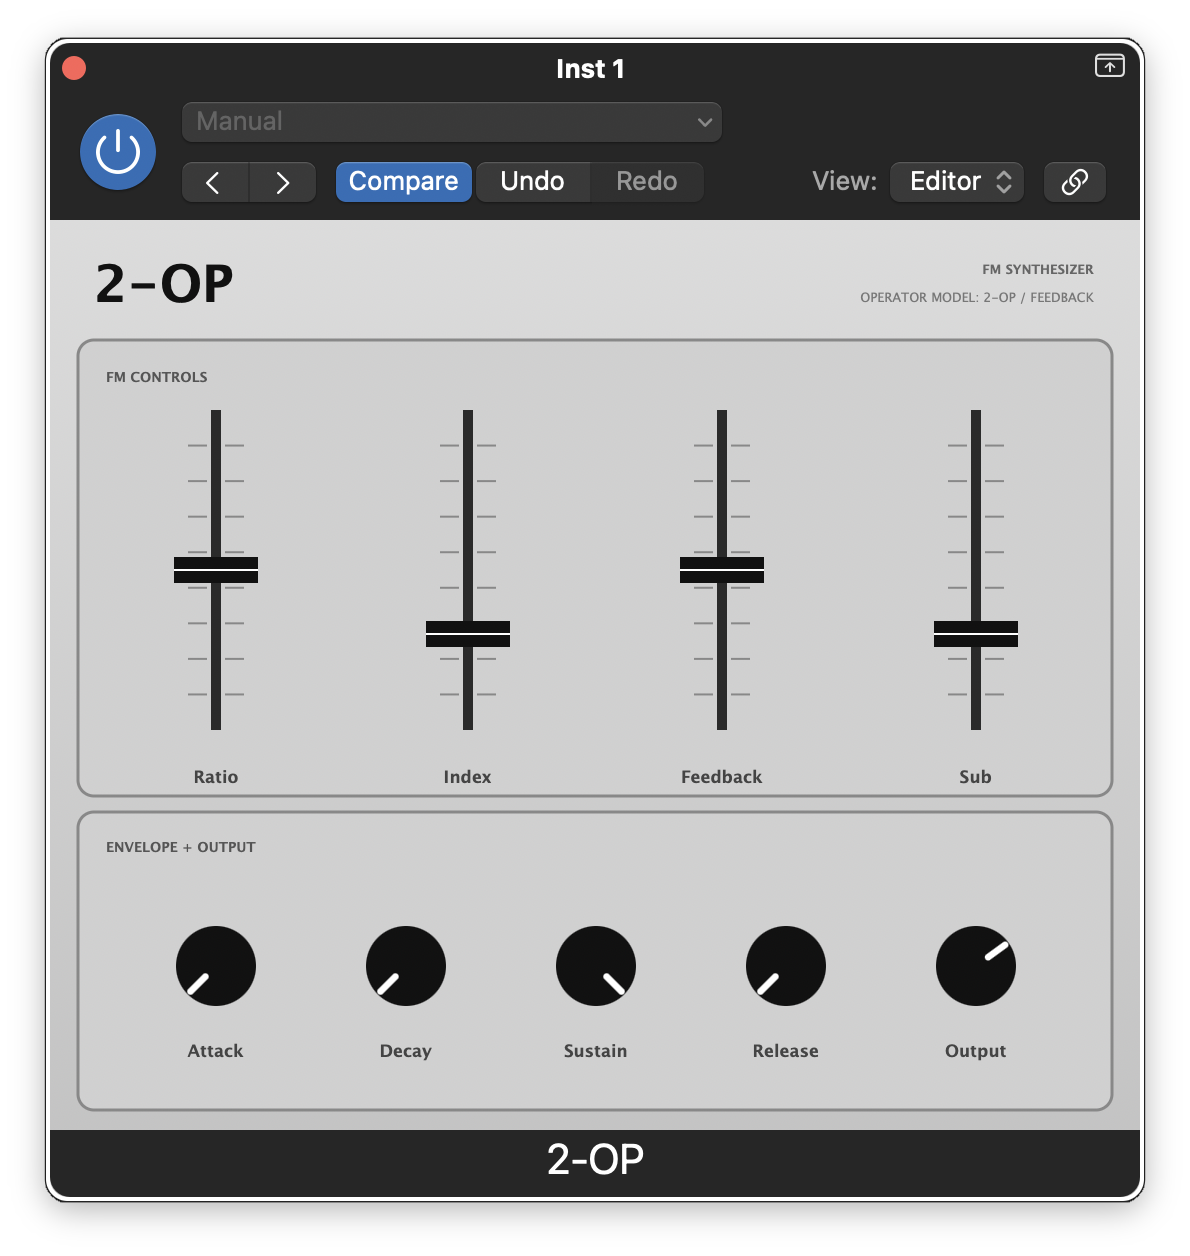
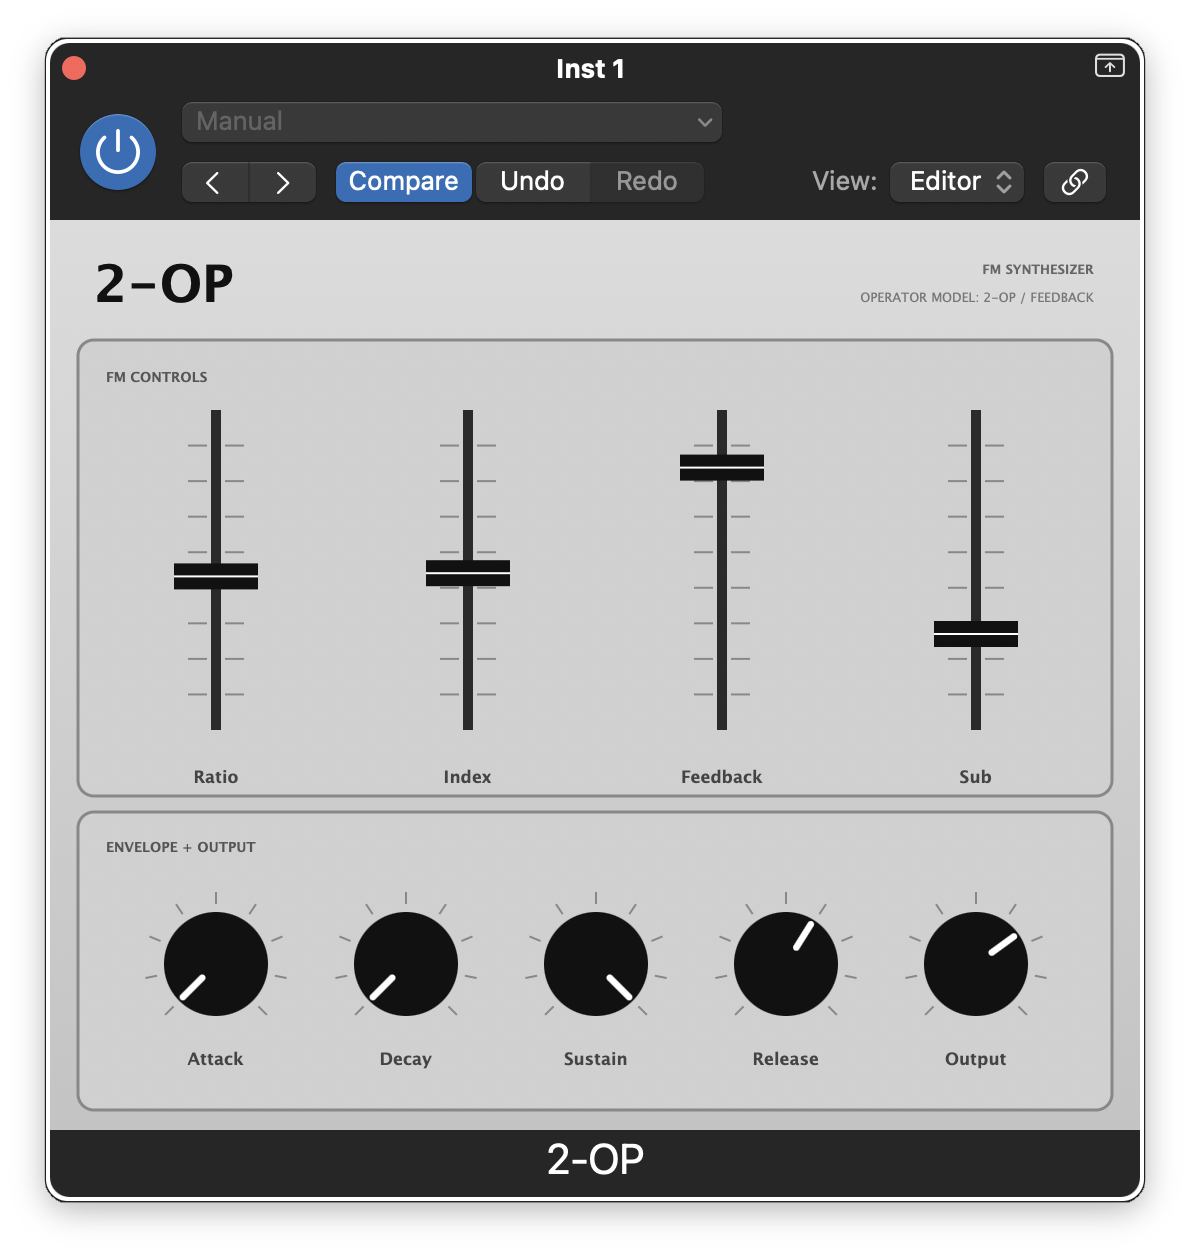
2-OP: add tick marks around knobs, widen knob bounds
- Draw 9 evenly-spaced tick marks at r+4..r+10 around each rotary knob
- Widen kKnobW from 56→76 to give tick marks room without clipping
- Center knob bounds vertically (use kKnobW/2 offset instead of kKnobR+2)
- Lower label Y by 10px to match new knob extent
- Update docs screenshot

diff --git a/2-OP/src/PluginEditor.cpp b/2-OP/src/PluginEditor.cpp
@@ -34,14 +34,14 @@ namespace {
     // ── Knob geometry ──────────────────────────────────────────────────────
     constexpr int   kKnobR     = 26;
     constexpr int   kKnobCY    = 372;
-    constexpr int   kKnobW     = kKnobR * 2 + 4;   // 56
+    constexpr int   kKnobW     = kKnobR * 2 + 24;  // 76 — extra margin for tick marks
 
     // Rotary sweep: −135° to +135° from 12 o'clock (270° total).
     constexpr float kRotaryStart = juce::MathConstants<float>::pi * 1.25f;
     constexpr float kRotaryEnd   = juce::MathConstants<float>::pi * 2.75f;
 
     // Knob label
-    constexpr int kKnobLabelY  = 402;
+    constexpr int kKnobLabelY  = 412;
     constexpr int kKnobLabelH  = 14;
     constexpr int kKnobLabelW  = 80;
 }
@@ -109,6 +109,20 @@ void ADSRKnobLookAndFeel::drawRotarySlider (juce::Graphics& g,
     const float cx = x + width  * 0.5f;
     const float cy = y + height * 0.5f;
     const float r  = (float) kKnobR;
+
+    // ── Tick marks ───────────────────────────────────────────────────────────
+    constexpr int kNumTicks = 9;
+    g.setColour (juce::Colour (0xff888888));
+    for (int i = 0; i < kNumTicks; ++i)
+    {
+        const float t     = (float) i / (float) (kNumTicks - 1);
+        const float angle = rotaryStartAngle + t * (rotaryEndAngle - rotaryStartAngle);
+        const float sinA  = std::sin (angle);
+        const float cosA  = std::cos (angle);
+        g.drawLine (cx + sinA * (r + 4.0f),  cy - cosA * (r + 4.0f),
+                    cx + sinA * (r + 10.0f), cy - cosA * (r + 10.0f),
+                    1.0f);
+    }
 
     // ── Body ─────────────────────────────────────────────────────────────────
     g.setColour (juce::Colour (0xff111111));
@@ -270,7 +284,7 @@ void TwoOpFMAudioProcessorEditor::resized()
     for (int i = 0; i < 5; ++i)
     {
         const int cx = kKnobColX[i];
-        knobs    [i]->setBounds (cx - kKnobW / 2, kKnobCY - kKnobR - 2, kKnobW, kKnobW);
+        knobs    [i]->setBounds (cx - kKnobW / 2, kKnobCY - kKnobW / 2, kKnobW, kKnobW);
         knobNames[i]->setBounds (cx - kKnobLabelW / 2, kKnobLabelY, kKnobLabelW, kKnobLabelH);
     }
 }
